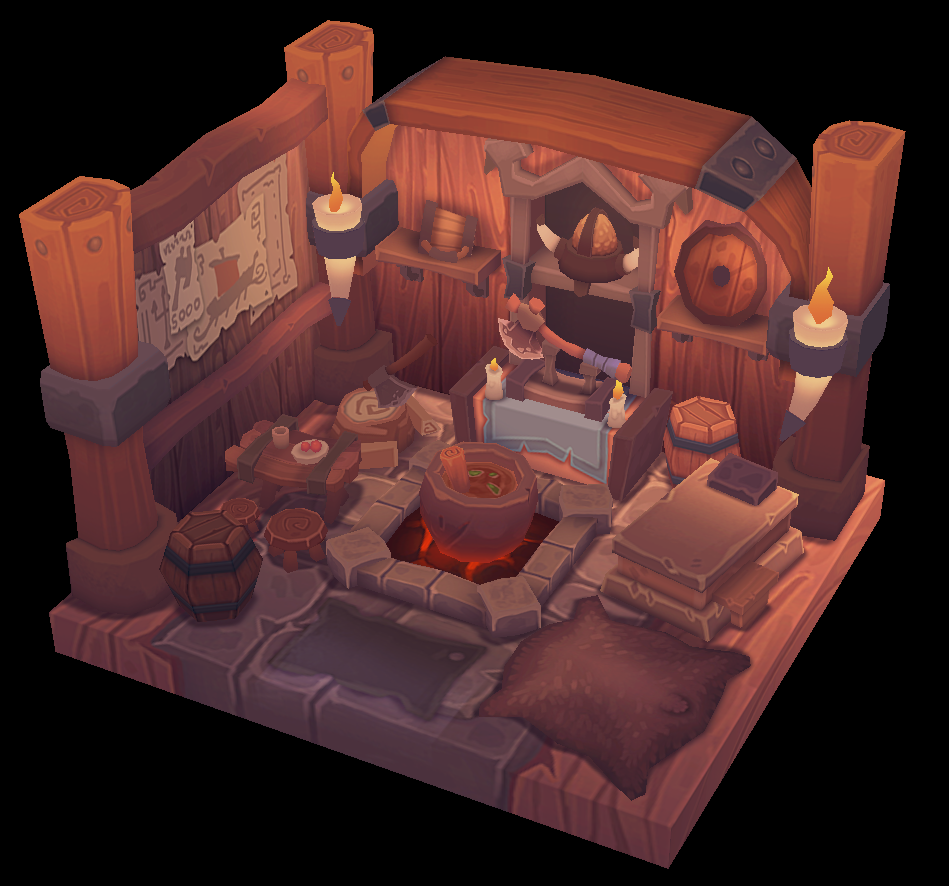
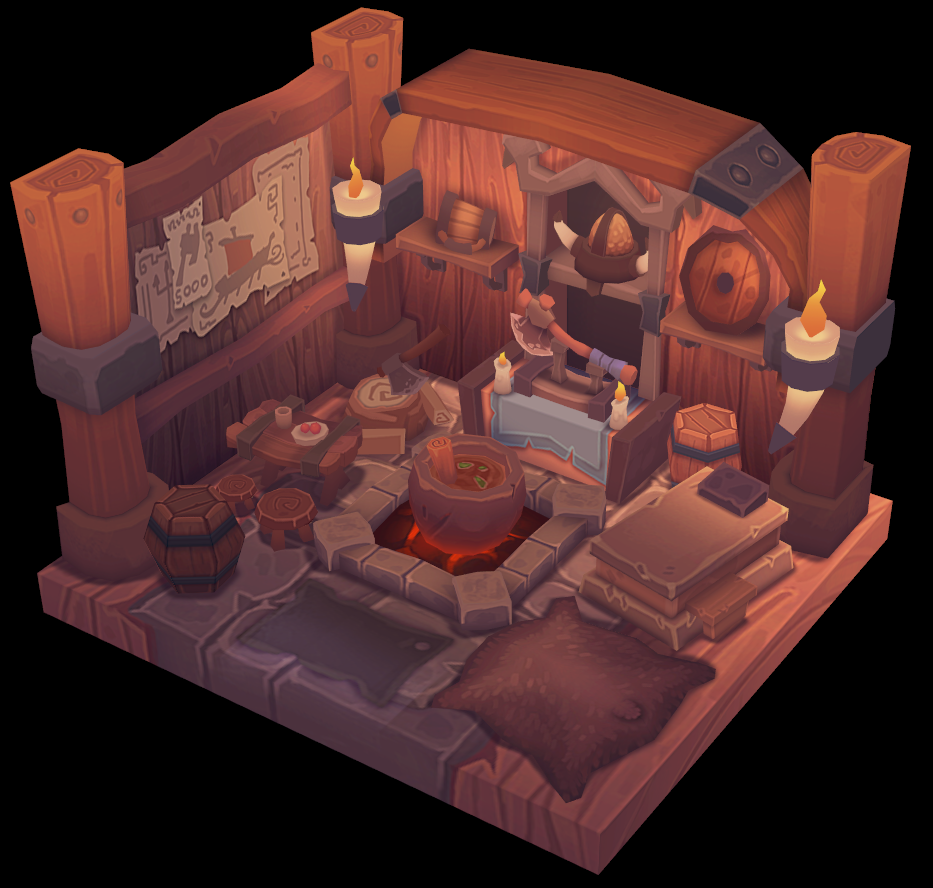
Update README, screenshot, add license

Changed region(s): [[0.0, 0.0, 1.0, 1.0], [0.4041, 0.8523, 0.4352, 0.8828]]

diff --git a/README.md b/README.md
@@ -1,8 +1,8 @@
 # Vulkan Tutorial in Zig
 
-Tracking my progress through the [vulkan tutorial](https://docs.vulkan.org/tutorial/latest/) with [Zig](https://ziglang.org/).
+An implementation of the [Vulkan Tutorial](https://docs.vulkan.org/tutorial/latest/) in [Zig](https://ziglang.org/), complete up to and including the "Multisampling" chapter.
 
-Currently, I have just completed the "Generating Mipmaps" chapter.
+This was written for my own learning, so you may find bugs. If you do, I'd be happy to fix them.
 
 ![application screenshot](screenshot.png)
 
@@ -17,3 +17,10 @@ Currently, I have just completed the "Generating Mipmaps" chapter.
   - [vulkan](https://vulkan.org/)
 
 After all dependencies are available, simply run `zig build run` in the root of the repository.
+
+### Attribution
+
+All the code in this repository is under the MIT license (`LICENSE.md`).
+
+The viking room object and texture in the `assets/` directory were created by [nigelgoh](https://sketchfab.com/nigelgoh) and licensed under [CC-BY-4.0](https://creativecommons.org/licenses/by/4.0/).
+

diff --git a/LICENSE.md b/LICENSE.md
@@ -1,0 +1,16 @@
+MIT No Attribution
+
+Copyright 2024 Joe Mckay (github.com/n0s4)
+
+Permission is hereby granted, free of charge, to any person obtaining a copy of this
+software and associated documentation files (the "Software"), to deal in the Software
+without restriction, including without limitation the rights to use, copy, modify,
+merge, publish, distribute, sublicense, and/or sell copies of the Software, and to
+permit persons to whom the Software is furnished to do so.
+
+THE SOFTWARE IS PROVIDED "AS IS", WITHOUT WARRANTY OF ANY KIND, EXPRESS OR IMPLIED,
+INCLUDING BUT NOT LIMITED TO THE WARRANTIES OF MERCHANTABILITY, FITNESS FOR A
+PARTICULAR PURPOSE AND NONINFRINGEMENT. IN NO EVENT SHALL THE AUTHORS OR COPYRIGHT
+HOLDERS BE LIABLE FOR ANY CLAIM, DAMAGES OR OTHER LIABILITY, WHETHER IN AN ACTION
+OF CONTRACT, TORT OR OTHERWISE, ARISING FROM, OUT OF OR IN CONNECTION WITH THE
+SOFTWARE OR THE USE OR OTHER DEALINGS IN THE SOFTWARE.
